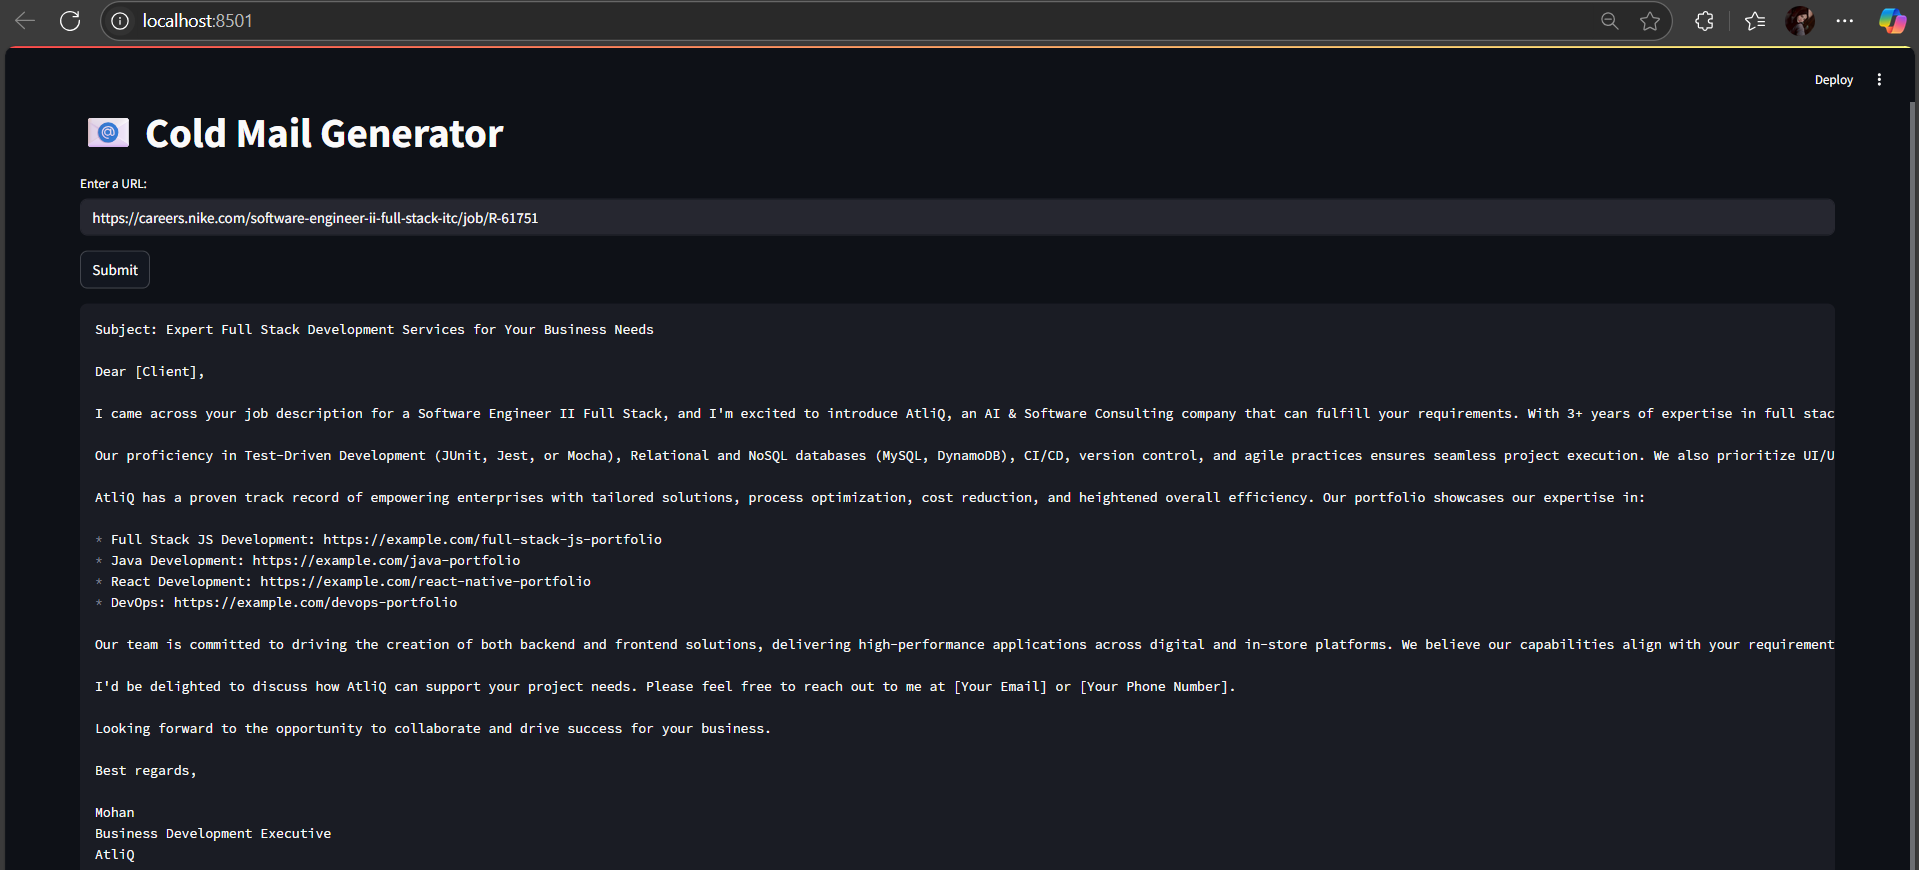
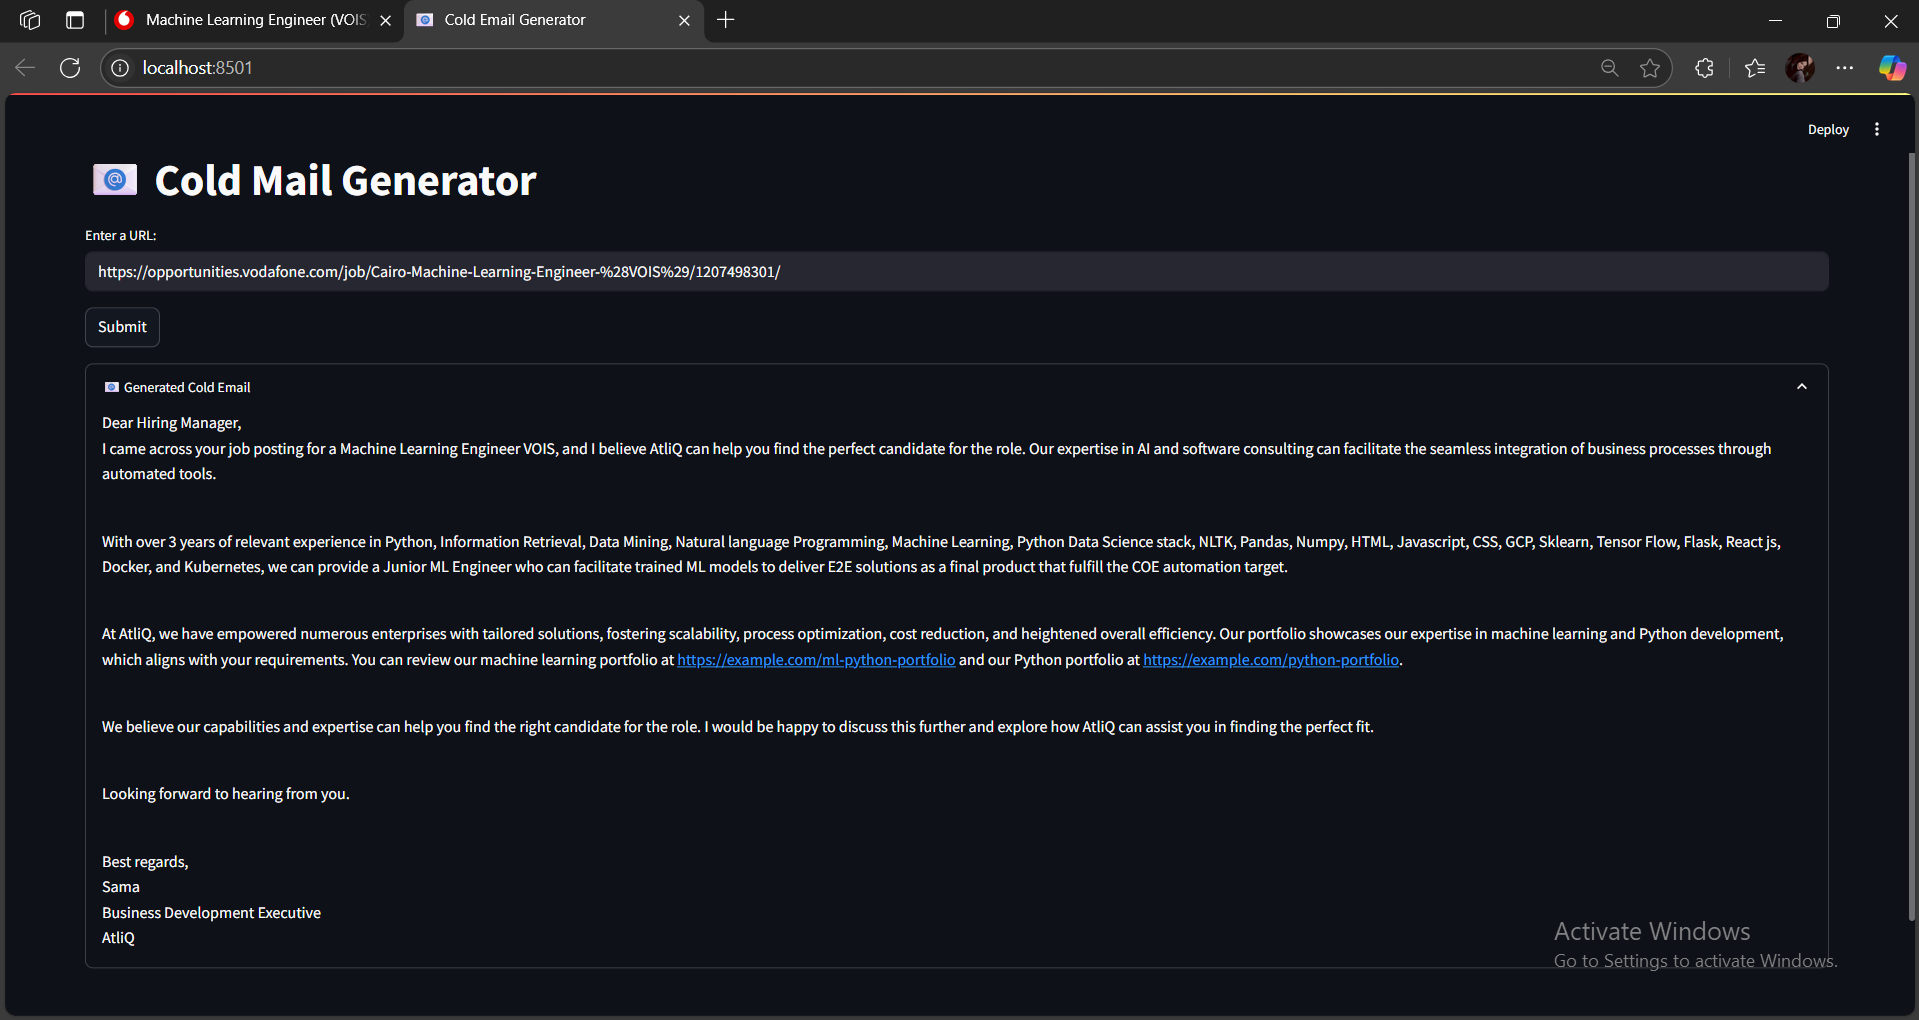
New Edit

diff --git a/app/chains.py b/app/chains.py
@@ -39,14 +39,15 @@ class Chain:
             {job_description}
 
             ### INSTRUCTION:
-            You are Mohan, a business development executive at AtliQ. AtliQ is an AI & Software Consulting company dedicated to facilitating
+            You are Sama, a business development executive at AtliQ. AtliQ is an AI & Software Consulting company dedicated to facilitating
             the seamless integration of business processes through automated tools. 
             Over our experience, we have empowered numerous enterprises with tailored solutions, fostering scalability, 
             process optimization, cost reduction, and heightened overall efficiency. 
             Your job is to write a cold email to the client regarding the job mentioned above describing the capability of AtliQ 
             in fulfilling their needs.
             Also add the most relevant ones from the following links to showcase Atliq's portfolio: {link_list}
-            Remember you are Mohan, BDE at AtliQ. 
+            Remember you are Sama, BDE at AtliQ. 
+            start the email with "Dear Hiring Manager," , don't use this "Here is the cold email:" .
             Do not provide a preamble.
             ### EMAIL (NO PREAMBLE):
 

diff --git a/app/portfolio.py b/app/portfolio.py
@@ -4,7 +4,7 @@ import uuid
 
 
 class Portfolio:
-    def __init__(self, file_path="app/resource/my_portfolio.csv"):
+    def __init__(self, file_path="resource/my_portfolio.csv"):
         self.file_path = file_path
         self.data = pd.read_csv(file_path)
         self.chroma_client = chromadb.PersistentClient('vectorstore')
@@ -18,4 +18,19 @@ class Portfolio:
                                     ids=[str(uuid.uuid4())])
 
     def query_links(self, skills):
-        return self.collection.query(query_texts=skills, n_results=2).get('metadatas', [])
+        results = self.collection.query(query_texts=skills, n_results=2)
+        all_links = []
+
+        for metadata_list in results.get('metadatas', []):
+            for metadata in metadata_list:
+                all_links.append(metadata["links"])
+
+        # Remove duplicates while preserving order
+        seen = set()
+        unique_links = []
+        for link in all_links:
+            if link not in seen:
+                seen.add(link)
+                unique_links.append(link)
+
+        return unique_links

diff --git a/app/main.py b/app/main.py
@@ -21,7 +21,9 @@ def create_streamlit_app(llm, portfolio, clean_text):
                 skills = job.get('skills', [])
                 links = portfolio.query_links(skills)
                 email = llm.write_mail(job, links)
-                st.code(email, language='markdown')
+                with st.expander("📧 Generated Cold Email", expanded=True):
+                    st.markdown(f"<div style='white-space: pre-wrap;'>{email}</div>", unsafe_allow_html=True)
+
         except Exception as e:
             st.error(f"An Error Occurred: {e}")
 
